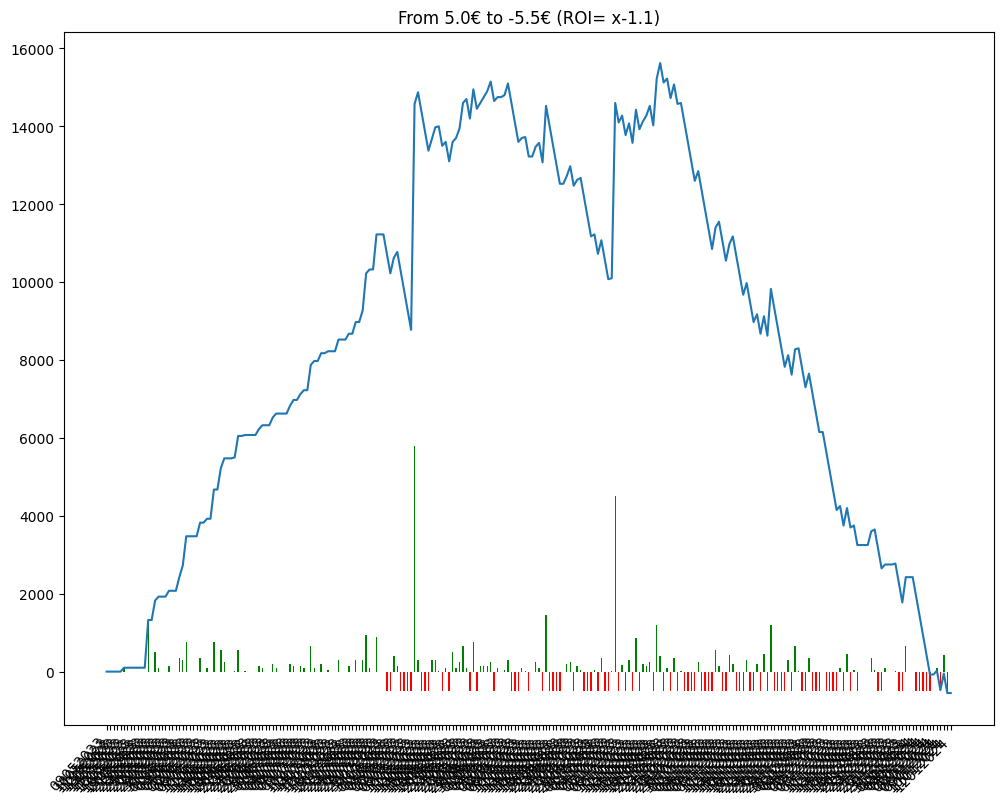
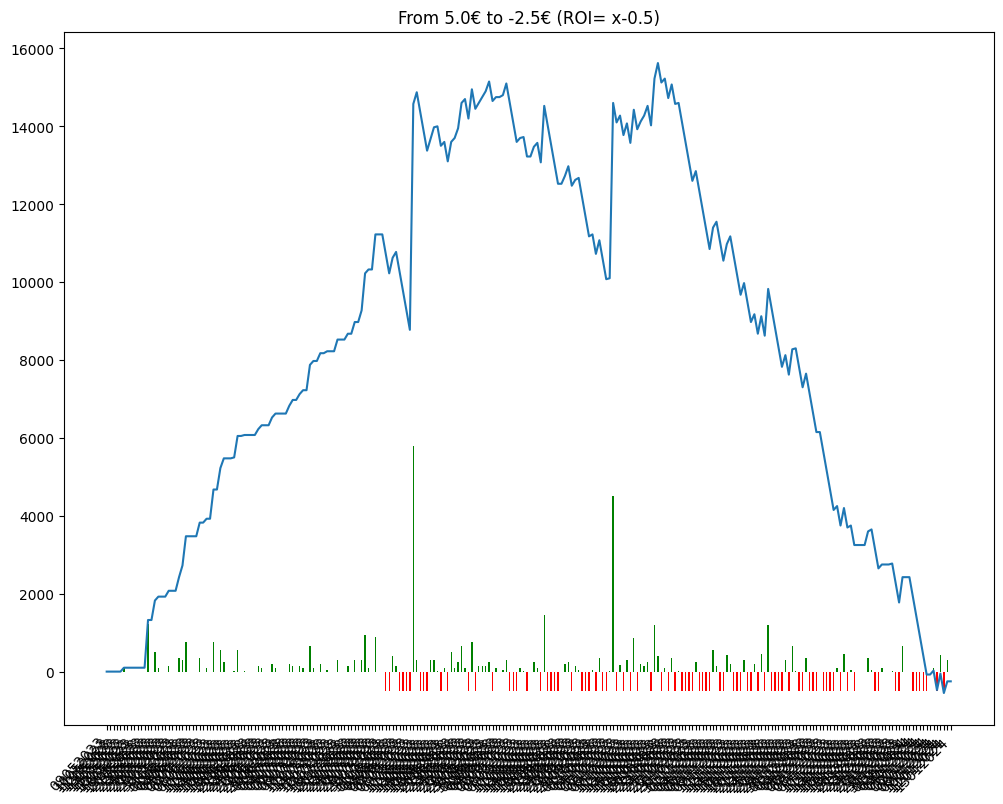
comment from python script

diff --git a/bethistory.html b/bethistory.html
@@ -86,7 +86,8 @@
             En observant la courbe 🤔, on peut avoir une idée visuelle de l'évolution des gains et ainsi évaluer le model utilisé 🧑🏫.
         </p>
         
-        <img src = "/candle.png" alt="candle chart"/><table><tr><td>Chevaux joués</td><td>Gains</td><td>URL Circuits</td></tr><tr><td>6 - GOLDENSIM</td><td>0</td><td><a href=https://www.pmu.fr/turf/12012024/r2/c7 target="_blank">https://www.pmu.fr/turf/12012024/r2/c7</a></td></tr>
+        <img src = "/candle.png" alt="candle chart"/><table><tr><td>Chevaux joués</td><td>Gains</td><td>URL Circuits</td></tr><tr><td>3 - LARNO</td><td>0</td><td><a href=https://www.pmu.fr/turf/13012024/r3/c2 target="_blank">https://www.pmu.fr/turf/13012024/r3/c2</a></td></tr>
+<tr><td>6 - GOLDENSIM</td><td>+300</td><td><a href=https://www.pmu.fr/turf/12012024/r2/c7 target="_blank">https://www.pmu.fr/turf/12012024/r2/c7</a></td></tr>
 <tr><td>1 - WASSERFARBE</td><td>-500</td><td><a href=https://www.pmu.fr/turf/11012024/r4/c8 target="_blank">https://www.pmu.fr/turf/11012024/r4/c8</a></td></tr>
 <tr><td>5 - FEARLESS FIRE</td><td>+425</td><td><a href=https://www.pmu.fr/turf/10012024/r2/c2 target="_blank">https://www.pmu.fr/turf/10012024/r2/c2</a></td></tr>
 <tr><td>1 - THE DIG</td><td>-500</td><td><a href=https://www.pmu.fr/turf/09012024/r4/c2 target="_blank">https://www.pmu.fr/turf/09012024/r4/c2</a></td></tr>
